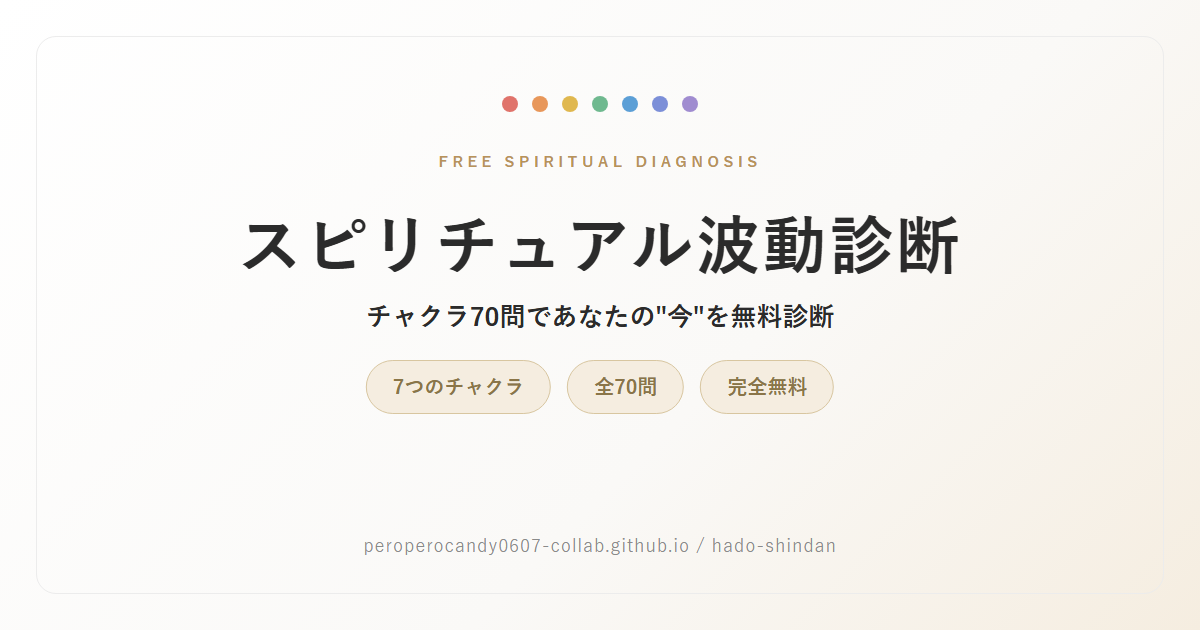
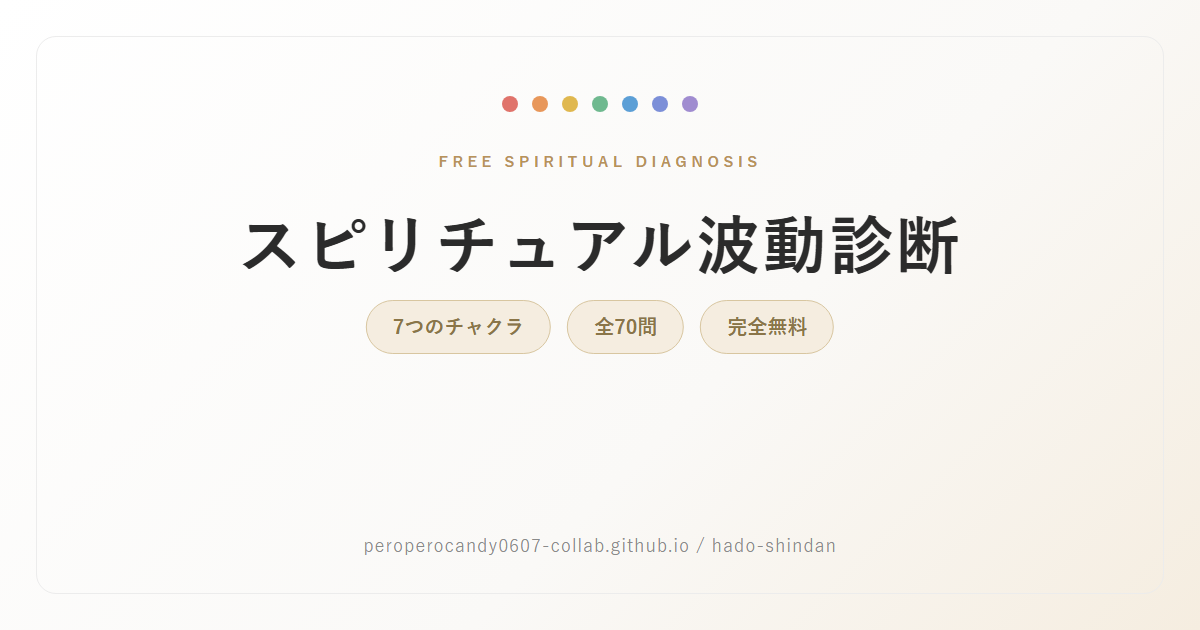
タイトルを1行に整理し、OGP説明文をカット・画像も同様に簡潔化

Changed region(s): [[0.3083, 0.4524, 0.7092, 0.6635], [0.5858, 0.6032, 0.6783, 0.6333], [0.4933, 0.6032, 0.555, 0.6333]]

diff --git a/index.html b/index.html
@@ -3,11 +3,10 @@
 <head>
 <meta charset="UTF-8">
 <meta name="viewport" content="width=device-width, initial-scale=1.0">
-<title>スピリチュアル波動診断｜チャクラ70問であなたの"今"を無料診断</title>
+<title>スピリチュアル波動診断｜チャクラ70問</title>
 <meta name="description" content="7つのチャクラ×70の質問で、あなたの&quot;今&quot;の波動バランスをスピリチュアルな視点から無料診断。恋愛・お金・心と体の状態が数値で見える化されます。">
 <meta property="og:type" content="website">
-<meta property="og:title" content="スピリチュアル波動診断｜チャクラ70問であなたの&quot;今&quot;を無料診断">
-<meta property="og:description" content="7つのチャクラ×70の質問で、あなたの&quot;今&quot;の波動バランスをスピリチュアルな視点から無料診断。恋愛・お金・心と体の状態が数値で見える化されます。">
+<meta property="og:title" content="スピリチュアル波動診断｜チャクラ70問">
 <meta property="og:image" content="https://peroperocandy0607-collab.github.io/hado-shindan/ogp.png">
 <meta property="og:url" content="https://peroperocandy0607-collab.github.io/hado-shindan/">
 <meta name="twitter:card" content="summary_large_image">
